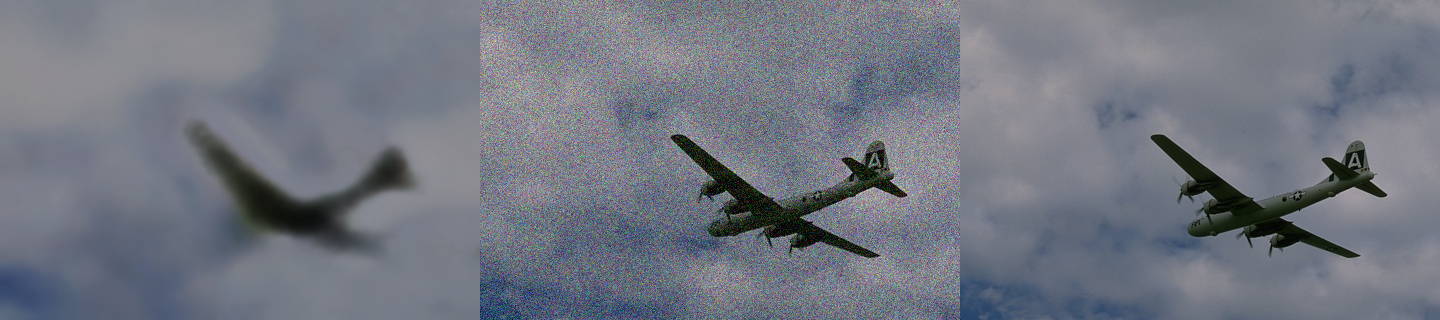
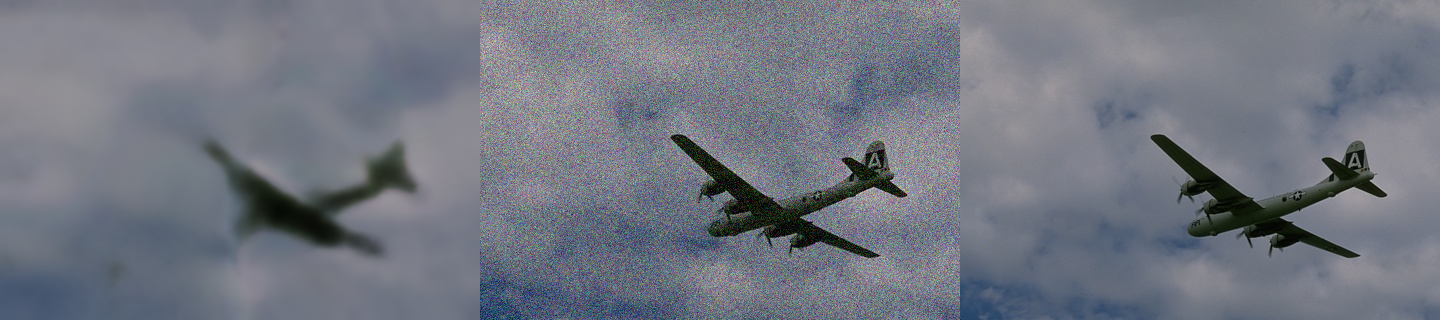
some changes :  admm_dip

diff --git a/src/hw5_task3.py b/src/hw5_task3.py
@@ -4,7 +4,7 @@ import numpy as np
 from torch.utils.data import Dataset
 from torchvision.datasets import MNIST
 from torchvision.transforms import Compose, ToTensor, Lambda
-from .models import Unet
+from .models.Unet import Unet
 import skimage.io
 from skimage.metrics import structural_similarity as ssim
 from .utils import *
@@ -106,10 +106,10 @@ def wiener_deconv(x, kernel):
 
 def load_models():
     model_deblur_denoise = Unet().to(device)
-    model_deblur_denoise.load_state_dict(torch.load('pretrained/deblur_denoise.pth', map_location=device))
+    model_deblur_denoise.load_state_dict(torch.load('./pretrained/deblur_denoise.pth', map_location=device))
 
     model_denoise = Unet().to(device)
-    model_denoise.load_state_dict(torch.load('pretrained/denoise.pth', map_location=device))
+    model_denoise.load_state_dict(torch.load('./pretrained/denoise.pth', map_location=device))
 
     return model_deblur_denoise, model_denoise
 
@@ -136,43 +136,53 @@ def evaluate_model(dataset_in, sigma_in=0.01):
         psnrs_denoise = []
         ssim_denoise = []
         idx = 0
-        for image, gt, kernel in dataset:
-            # noisy_image = image + sigma * torch.randn_like(image)
-            noisy_image=image
+        with torch.no_grad():
+            for image, gt, kernel in dataset:
+                image = image.to(device)
+                gt = gt.to(device)
+                kernel = kernel.to(device)
 
-            # Apply Wiener deconvolution
-            wiener_deconvolved = wiener_deconv(noisy_image, kernel)
+                # noisy_image = image + sigma * torch.randn_like(image)
+                noisy_image = image
 
-            # Apply the neural network models
-            #denoised_image = model_denoise(noisy_image)
-            deblurred_denoised_image = model_deblur_denoise(noisy_image)
-            
-            # Hybrid approach
-            wiener_then_denoised_image = model_denoise(wiener_deconvolved)
+                # Apply Wiener deconvolution
+                wiener_deconvolved = wiener_deconv(noisy_image, kernel)
 
-            # Calculate PSNR
-            psnr_wiener = calc_psnr(wiener_deconvolved, gt)
-            psnr_deblur_denoise = calc_psnr(deblurred_denoised_image, gt)
-            psnr_denoise = calc_psnr(wiener_then_denoised_image, gt)
-            
-            # breakpoint()
-            ssim_weiner.append(ssim(wiener_deconvolved.detach().numpy().squeeze(0).transpose(1,2,0), gt.detach().numpy().squeeze(0).transpose(1,2,0), full=True, channel_axis=2)[0])
-            ssim_deblur_denoise.append(ssim(deblurred_denoised_image.detach().numpy().squeeze(0).transpose(1,2,0), gt.detach().numpy().squeeze(0).transpose(1,2,0), full=True, channel_axis=2)[0])
-            ssim_denoise.append(ssim(wiener_then_denoised_image.detach().numpy().squeeze(0).transpose(1,2,0), gt.detach().numpy().squeeze(0).transpose(1,2,0), full=True, channel_axis=2)[0])
+                # Apply the neural network models
+                # denoised_image = model_denoise(noisy_image)
+                deblurred_denoised_image = model_deblur_denoise(noisy_image)
 
-            psnrs_wiener.append(psnr_wiener)
-            psnrs_deblur_denoise.append(psnr_deblur_denoise)
-            psnrs_denoise.append(psnr_denoise)
-            #, deblurred_denoised_image.detach().numpy().squeeze(0), wiener_then_denoised_image.detach().numpy().squeeze(0)
-            plot_image_grid([noisy_image.detach().numpy().squeeze(0), wiener_deconvolved.detach().numpy().squeeze(0)], index = idx, task="deblur", prefix="task3", suffix="weiner_deconv")
-            plot_image_grid([noisy_image.detach().numpy().squeeze(0), deblurred_denoised_image.detach().numpy().squeeze(0)], index = idx, task="deblur", prefix="task3", suffix="deblur_denoise")
-            plot_image_grid([noisy_image.detach().numpy().squeeze(0), wiener_then_denoised_image.detach().numpy().squeeze(0)], index = idx, task="deblur", prefix="task3", suffix="denoise")
+                # Hybrid approach
+                wiener_then_denoised_image = model_denoise(wiener_deconvolved)
 
-            skimage.io.imsave(f'wiener_sigma_{sigma}.png', (img_to_numpy(wiener_deconvolved)*255).astype(np.uint8))
-            skimage.io.imsave(f'deblur_denoise_sigma_{sigma}.png', (img_to_numpy(deblurred_denoised_image)*255).astype(np.uint8))
-            skimage.io.imsave(f'denoise_sigma_{sigma}.png', (img_to_numpy(wiener_then_denoised_image)*255).astype(np.uint8))         
+                # Calculate PSNR
+                psnr_wiener = calc_psnr(wiener_deconvolved, gt)
+                psnr_deblur_denoise = calc_psnr(deblurred_denoised_image, gt)
+                psnr_denoise = calc_psnr(wiener_then_denoised_image, gt)
 
-            idx += 1
+                wiener_np = wiener_deconvolved.detach().cpu().numpy().squeeze(0).transpose(1, 2, 0)
+                deblur_denoise_np = deblurred_denoised_image.detach().cpu().numpy().squeeze(0).transpose(1, 2, 0)
+                denoise_np = wiener_then_denoised_image.detach().cpu().numpy().squeeze(0).transpose(1, 2, 0)
+                gt_np = gt.detach().cpu().numpy().squeeze(0).transpose(1, 2, 0)
+                noisy_np = noisy_image.detach().cpu().numpy().squeeze(0)
+
+                ssim_weiner.append(ssim(wiener_np, gt_np, full=True, channel_axis=2, data_range=1.0)[0])
+                ssim_deblur_denoise.append(ssim(deblur_denoise_np, gt_np, full=True, channel_axis=2, data_range=1.0)[0])
+                ssim_denoise.append(ssim(denoise_np, gt_np, full=True, channel_axis=2, data_range=1.0)[0])
+
+                psnrs_wiener.append(psnr_wiener)
+                psnrs_deblur_denoise.append(psnr_deblur_denoise)
+                psnrs_denoise.append(psnr_denoise)
+
+                plot_image_grid([noisy_np, wiener_deconvolved.detach().cpu().numpy().squeeze(0)], index=idx, task="deblur", prefix="task3", suffix="weiner_deconv")
+                plot_image_grid([noisy_np, deblurred_denoised_image.detach().cpu().numpy().squeeze(0)], index=idx, task="deblur", prefix="task3", suffix="deblur_denoise")
+                plot_image_grid([noisy_np, wiener_then_denoised_image.detach().cpu().numpy().squeeze(0)], index=idx, task="deblur", prefix="task3", suffix="denoise")
+
+                skimage.io.imsave(f'wiener_sigma_{sigma}.png', (img_to_numpy(wiener_deconvolved) * 255).astype(np.uint8))
+                skimage.io.imsave(f'deblur_denoise_sigma_{sigma}.png', (img_to_numpy(deblurred_denoised_image) * 255).astype(np.uint8))
+                skimage.io.imsave(f'denoise_sigma_{sigma}.png', (img_to_numpy(wiener_then_denoised_image) * 255).astype(np.uint8))
+
+                idx += 1
         return [psnrs_wiener, psnrs_deblur_denoise, psnrs_denoise, ssim_weiner, ssim_deblur_denoise, ssim_denoise]
         # print(f'Average PSNR for Wiener deconvolution at sigma {sigma}: {np.mean(psnrs_wiener)}')
         # print(f'Average PSNR for Deblur+Denoise model at sigma {sigma}: {np.mean(psnrs_deblur_denoise)}')

diff --git a/src/denoise_dip_tv.py b/src/denoise_dip_tv.py
@@ -71,7 +71,8 @@ def admm_dip_single(img_pil, img_clean_np, y, ind, verbose=False):
     # net = net.type(dtype)
     net = net.to(device)
 
-    # net_input = get_noise(input_depth, INPUT, (img_pil.size[1], img_pil.size[0])).type(dtype).detach()
+    # net_input = get_noise(input_depth, INPUT, (img_pil.si
+    # ze[1], img_pil.size[0])).type(dtype).detach()
     net_input = get_noise(input_depth, INPUT, (img_pil.size[1], img_pil.size[0])).to(device).detach()
     # Compute number of parameters
     if verbose:
@@ -90,7 +91,7 @@ def admm_dip_single(img_pil, img_clean_np, y, ind, verbose=False):
 
     # Dh_DFT = torch.from_numpy(psf2otf(Dh_psf, [h,w]))
     # Dv_DFT = torch.from_numpy(psf2otf(Dv_psf, [h,w]))
-    Dh_DFT = torch.from_numpy(psf2otf(Dh_psf, [h,w])).to(device)
+    Dh_DFT = torch.from_numpy(psf2otf(Dh_psf, [h,w])).to(device)  
     Dv_DFT = torch.from_numpy(psf2otf(Dv_psf, [h,w])).to(device)
 
 
@@ -104,9 +105,9 @@ def admm_dip_single(img_pil, img_clean_np, y, ind, verbose=False):
     mu_t_v = torch.zeros_like(img_noisy_torch, device=device)
 
     # Hyperparameters to tune
-    beta_t = 25
+    beta_t = 25 / 2
     weight = 0.01
-    inner_iterations = 20 
+    inner_iterations = 10 # 20
     
     metrics = []
     loss_values = []
@@ -117,21 +118,26 @@ def admm_dip_single(img_pil, img_clean_np, y, ind, verbose=False):
         
         # Regularization
         if inner_iterations>1:
-            optimizer = torch.optim.Adam(net.parameters(), lr=LR)
-
+            # optimizer = torch.optim.Adam(net.parameters(), lr=LR)
+            optimizer = torch.optim.LBFGS(net.parameters(), lr=LR, tolerance_grad=-1, tolerance_change=-1)
         # Update theta
         for j in range(inner_iterations):
-            optimizer.zero_grad()
-        
-            #First problem
-            out = net(net_input)
-            [Dh_out, Dv_out] = D(out, Dh_DFT, Dv_DFT)
+            def closure():
+                optimizer.zero_grad()
 
-            total_loss = norm2_loss(out-img_noisy_torch)
-            total_loss += (beta_t/2)*norm2_loss(Dh_out-(t_h-mu_t_h).detach()) + (beta_t/2)*norm2_loss(Dv_out-(t_v-mu_t_v).detach())
-            
-            total_loss.backward()
-            optimizer.step()
+                # First problem
+                out = net(net_input)
+                [Dh_out, Dv_out] = D(out, Dh_DFT, Dv_DFT)
+
+                total_loss = norm2_loss(out - img_noisy_torch)
+                total_loss += (beta_t / 2) * norm2_loss(Dh_out - (t_h - mu_t_h).detach())
+                total_loss += (beta_t / 2) * norm2_loss(Dv_out - (t_v - mu_t_v).detach())
+
+                total_loss.backward()
+                return total_loss
+
+            total_loss = optimizer.step(closure)
+        
         
         running_loss = total_loss.item()
         loss_values.append(running_loss)

diff --git a/run_dip_denoise_deblur.py b/run_dip_denoise_deblur.py
@@ -103,7 +103,7 @@ class BSDS300Dataset(Dataset):
             return self.images[idx]
         
 class BlurredBSDS300Dataset(BSDS300Dataset):
-    def __init__(self, root='./Dataset/BSDS300/BSDS300', patch_size=32, split=None, use_patches=True,
+    def __init__(self, root='./Dataset/BSDS300/BSDS300', patch_size=32, use_patches=True,
                  kernel_size=7, sigma=2, return_kernel=True):
         super(BlurredBSDS300Dataset, self).__init__(root=root, patch_size=patch_size, use_patches=use_patches)
 
@@ -158,7 +158,7 @@ def run_method(dataset, dataset_name="BSDS300", task="denoise", method= "DIP", f
         print(f"Running {method} on {dataset_name} for {task}")
             
         if dataset_name == "BSDS300":   
-            subset = get_random_subset(dataset, subset_size=1) ####CHANGE THIS TO 1 FOR FINAL RUN
+            subset = get_random_subset(dataset, subset_size=1) ####CHANGE THIS 
             
             processed_pils, processed_tensors = process_subset(subset)     
             n = len(processed_pils)
@@ -181,7 +181,8 @@ def run_method(dataset, dataset_name="BSDS300", task="denoise", method= "DIP", f
                         img_np = processed_tensors[i].numpy()
                         
                         sigma = ALL_PARAMS[method]["sigma"]
-                        img_noisy_np = add_noise(img_tensor, sigma).numpy()
+                        # img_noisy_np = add_noise(img_tensor, sigma).numpy()
+                        img_noisy_np = add_speckle(img_tensor, sigma).numpy()
                         metrics_all = []
                         
                         if method == "BM3D":
@@ -208,10 +209,13 @@ def run_method(dataset, dataset_name="BSDS300", task="denoise", method= "DIP", f
                         with open(fsavepath + "/denoise/" + method + f"/metrics_image={i+1}.pkl", "wb") as f:
                             pickle.dump(metrics, f)
             elif task == "deblur":
-                dataset = BlurredBSDS300Dataset(split='test', kernel_size=7)
+                dataset = BlurredBSDS300Dataset(kernel_size=7)
                 subset = dataset
+                if not os.path.exists(fsavepath + "/deblur/" + method):
+                        os.makedirs(fsavepath + "/deblur/" + method) 
                 idx=0
                 for img, gt, kernel in subset:
+                    # print(gt.size)
                     gt_pil = TF.to_pil_image(gt.squeeze(0))
                     gt_pil.save(fsavepath + "/deblur/" + f"gt{idx}.png")
                     img = img + SMART_DEBLUR_DIP_PARAMS["sigma"]*torch.randn_like(img)
